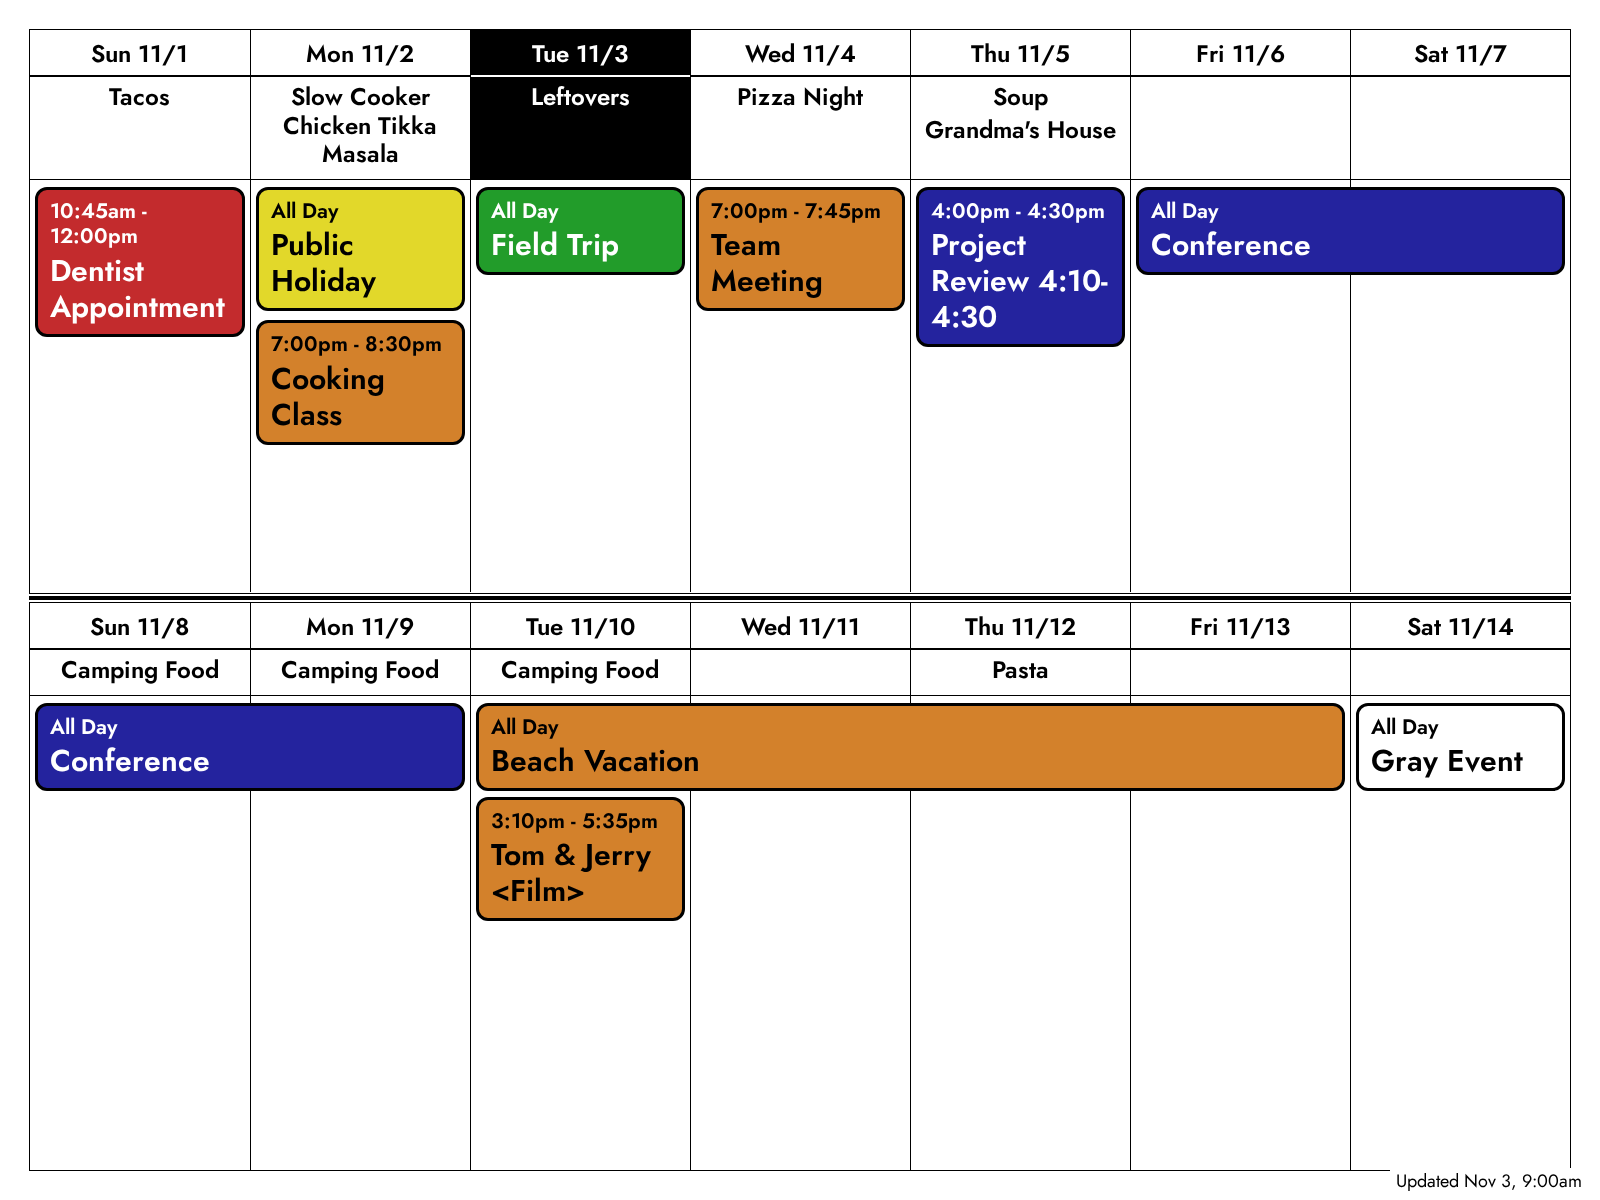
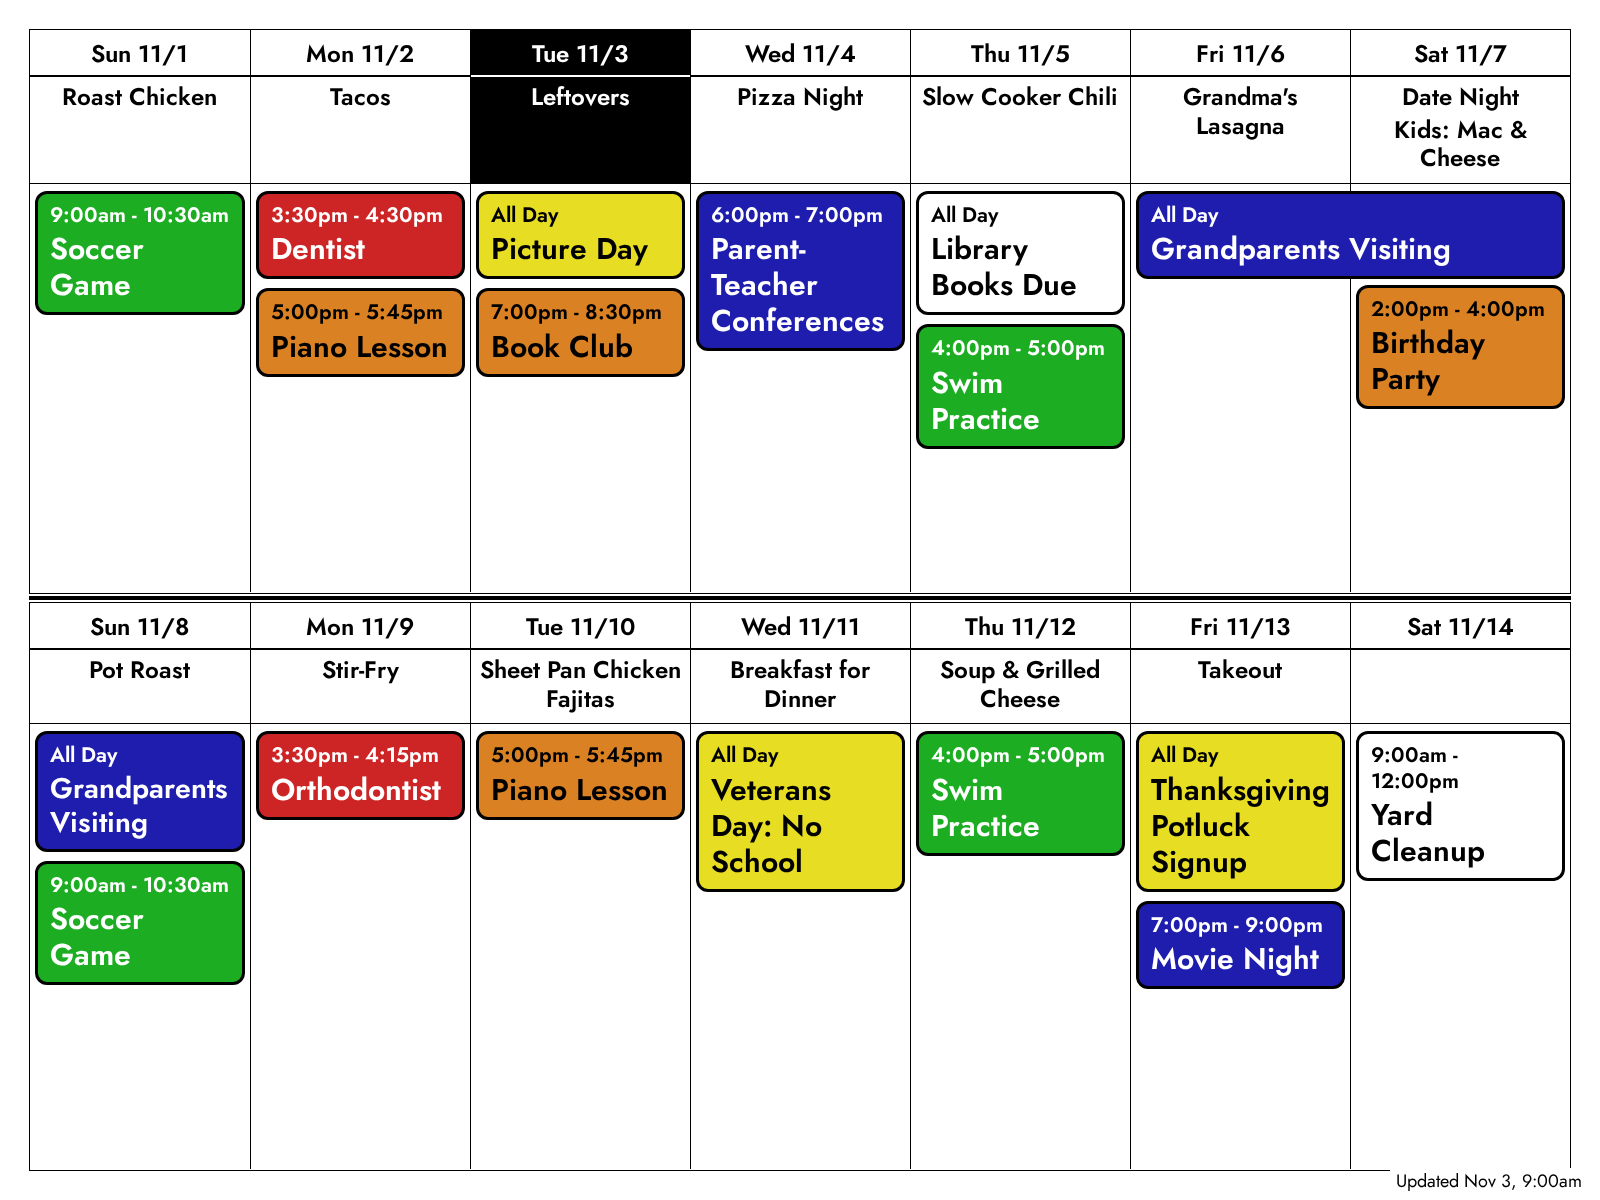
Use a realistic sample calendar, and fit long words instead of breaking them
- The example and render_sample.py show a family's two weeks with real dinners, using every panel color.
- A word too wide for its event box, like "Thanksgiving" in one day, shrinks to fit, down to 70%, before it breaks mid-word.

diff --git a/google_calendar/render/google_calendar.html b/google_calendar/render/google_calendar.html
@@ -123,6 +123,24 @@
                 calendar.render();
                 return calendar;
             });
+            weeks.forEach(fitLongWords);
+        }
+
+        // A word too wide for its box, such as "Thanksgiving" in one day, would break
+        // mid-word. Its title shrinks to fit instead, down to 70%, and only then breaks.
+        function fitLongWords(week) {
+            week.querySelectorAll('.event-title').forEach(title => {
+                if (title.scrollWidth <= title.clientWidth) {
+                    return;
+                }
+                const size = parseFloat(getComputedStyle(title).fontSize);
+                for (let percent = 95; percent >= 70 && title.scrollWidth > title.clientWidth; percent -= 5) {
+                    title.style.fontSize = `${size * percent / 100}px`;
+                }
+                if (title.scrollWidth > title.clientWidth) {
+                    title.style.overflowWrap = 'break-word';
+                }
+            });
         }
 
         function headerHeight(week) {
@@ -149,6 +167,7 @@
             const spare = (total - needed[0] - needed[1]) / 2;
             weeks.forEach((week, index) => { week.style.flex = `0 0 ${needed[index] + spare}px`; });
             calendars.forEach(calendar => calendar.updateSize());
+            weeks.forEach(fitLongWords);
         }
 
         function heightsAt(scale) {

diff --git a/google_calendar/render/google_calendar.css b/google_calendar/render/google_calendar.css
@@ -165,6 +165,7 @@
   font-size: calc(30px * var(--font-scale) * var(--fit-scale));
   font-weight: 800;
   line-height: 1.2;
-  overflow-wrap: break-word;
+  /* fitLongWords shrinks a too-long word first, and allows breaking only if that fails. */
+  overflow-wrap: normal;
   white-space: normal;
 }

diff --git a/tests/render_sample.py b/tests/render_sample.py
@@ -51,17 +51,26 @@ def all_day(title, first, last, color=None):
     return item
 
 
+# A family's two weeks, using every panel color. Offsets count days from the first Sunday.
 items = [
-    timed("Dentist Appointment", 0, "10:45", "12:00", "11"),
-    all_day("Public Holiday", 1, 1, "5"),
-    timed("Cooking Class", 1, "19:00", "20:30", "6"),
-    all_day("Field Trip", 2, 2, "10"),
-    timed("Team Meeting", 3, "19:00", "19:45", "6"),
-    timed("Project Review 4:10-4:30", 4, "16:00", "16:30"),
-    all_day("Beach Vacation", 9, 12, "6"),
-    timed("Tom & Jerry <Film>", 9, "15:10", "17:35", "6"),
-    all_day("Conference", 5, 8, "9"),
-    all_day("Gray Event", 13, 13, "8"),
+    timed("Soccer Game", 0, "09:00", "10:30", "10"),
+    timed("Dentist", 1, "15:30", "16:30", "11"),
+    timed("Piano Lesson", 1, "17:00", "17:45", "6"),
+    all_day("Picture Day", 2, 2, "5"),
+    timed("Book Club", 2, "19:00", "20:30", "6"),
+    timed("Parent-Teacher Conferences", 3, "18:00", "19:00"),
+    all_day("Library Books Due", 4, 4, "8"),
+    timed("Swim Practice", 4, "16:00", "17:00", "10"),
+    all_day("Grandparents Visiting", 5, 7, "9"),
+    timed("Birthday Party", 6, "14:00", "16:00", "6"),
+    timed("Soccer Game", 7, "09:00", "10:30", "10"),
+    timed("Orthodontist", 8, "15:30", "16:15", "11"),
+    timed("Piano Lesson", 9, "17:00", "17:45", "6"),
+    all_day("Veterans Day: No School", 10, 10, "5"),
+    timed("Swim Practice", 11, "16:00", "17:00", "10"),
+    timed("Movie Night", 12, "19:00", "21:00"),
+    all_day("Thanksgiving Potluck Signup", 12, 12, "5"),
+    timed("Yard Cleanup", 13, "09:00", "12:00", "8"),
 ]
 busy = sys.argv[4] if len(sys.argv) > 4 else ""
 for index in range({"slight": 3, "lopsided": 6, "heavy": 8, "extreme": 30}.get(busy, 0)):
@@ -74,15 +83,22 @@ default_color = palette_name_for_hex("#3788d8")
 palette = ink_colors(sys.argv[5] if len(sys.argv) > 5 else 0.5)
 events = [to_fullcalendar_event(item, default_color, tz, palette) for item in items]
 
+# One night has two entries, one title wraps, one is timed, and the last day is unplanned.
 dinners = [
-    all_day("Tacos", 0, 0),
-    all_day("Slow Cooker Chicken Tikka Masala", 1, 1),
+    all_day("Roast Chicken", 0, 0),
+    all_day("Tacos", 1, 1),
     all_day("Leftovers", 2, 2),
     timed("Pizza Night", 3, "18:00", "19:00"),
-    all_day("Soup", 4, 4),
-    all_day("Grandma's House", 4, 4),
-    all_day("Camping Food", 7, 9),
-    all_day("Pasta", 11, 11),
+    all_day("Slow Cooker Chili", 4, 4),
+    all_day("Grandma's Lasagna", 5, 5),
+    all_day("Date Night", 6, 6),
+    all_day("Kids: Mac & Cheese", 6, 6),
+    all_day("Pot Roast", 7, 7),
+    all_day("Stir-Fry", 8, 8),
+    all_day("Sheet Pan Chicken Fajitas", 9, 9),
+    all_day("Breakfast for Dinner", 10, 10),
+    all_day("Soup & Grilled Cheese", 11, 11),
+    all_day("Takeout", 12, 12),
 ]
 date_row = None
 if not (len(sys.argv) > 6 and sys.argv[6] == "nodinners"):
